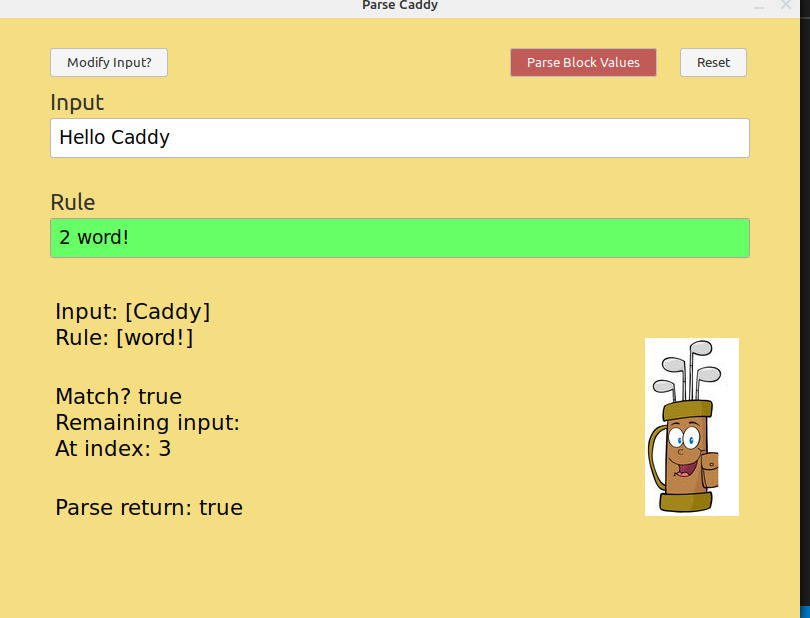
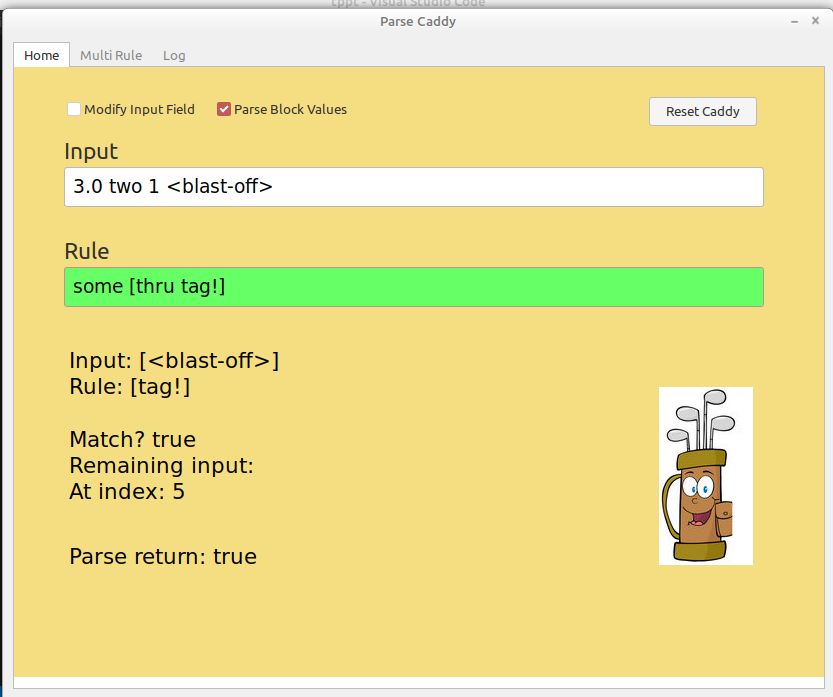
Changed toggles to checks. Edited README and added .png files

diff --git a/README.md b/README.md
@@ -1,24 +1,61 @@
 
-![caddy](caddy.png)
+
+![caddy](caddy.png) 
 
 # Parse Caddy - A visual parse rule checker     
 
-Type in your input. Modify Input? is recommended, otherwise watch the "Remaining input:" text for changes.
+What's Parse?
+
+"So, in short, what is Parse? It is an embedded DSL (we call them "dialects" in the Rebol world) for parsing input series using grammar rules. The Parse dialect is an enhanced member of the TDPL family. Parse's common usages are for checking, validating, extracting, modifying input data or even implementing embedded and external DSLs."
+
+[Overview here](https://www.red-lang.org/search?q=parse)
+
+[Full documentation here](https://github.com/red/docs/blob/master/en/parse.adoc)
+
+----
+
+## Tool usage
+
+* Type in your input. 
+- Modify Input Field is recommended, otherwise watch the "Remaining input:" text for changes.
+
 
 ![input](input.png)
 
 ----
 
-Type in your rule. 
+* Type in your rule. 
 
-It will check if it passes or fails as you type. Clearing the field will reset some things :)
+- The tool will check if the rule passes or fails as you type. Clearing the field will reset some things :)
 
 ![rule](rule.png)
 
 ----
 
-Toggle to parse Block values.
+* Check to parse Block values.
 
 ![block](block.png)
 
 ----
+
+* Type in multiple parse rules here.
+- Click the Load Rules button.
+
+![multi](multi.png)
+
+* Use them in the Rule field
+
+![multi-2](multi-2.png)
+
+**CAUTION**
+
+In the current version of the tool, anything in the Multiple Rules area will be loaded and executed by the Red language if you click Load Rules. 
+
+Be careful.
+
+----
+
+* And there's a Log area for those who like logs.
+- The buttons should be self explanatory, but let me know if you have questions.
+
+![log](log.png)
